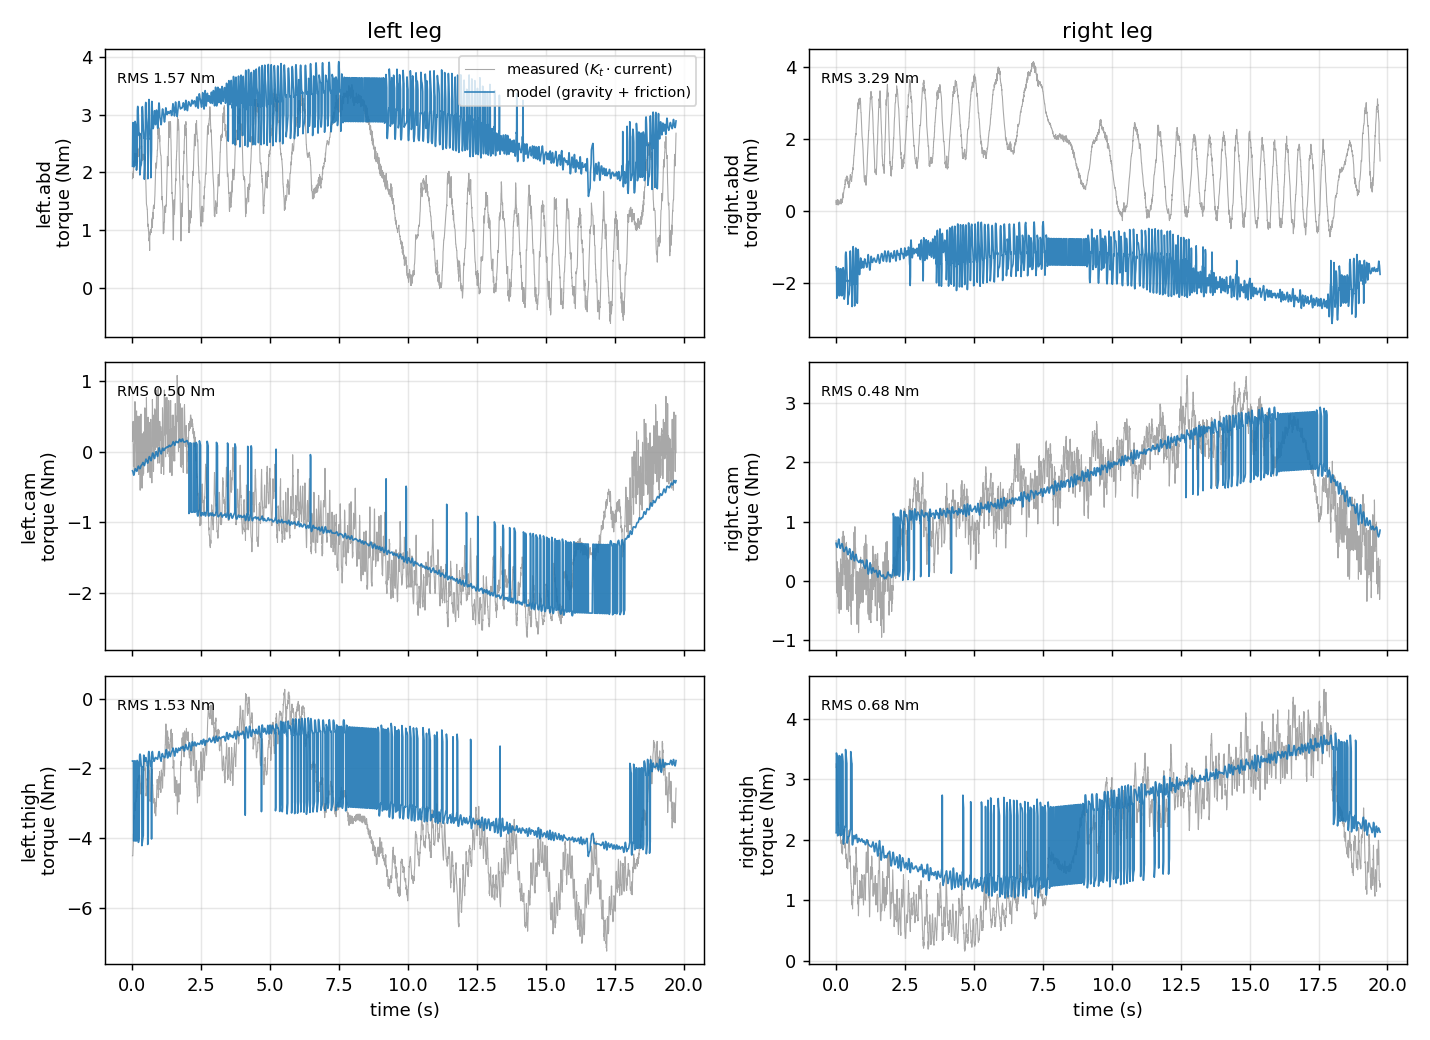
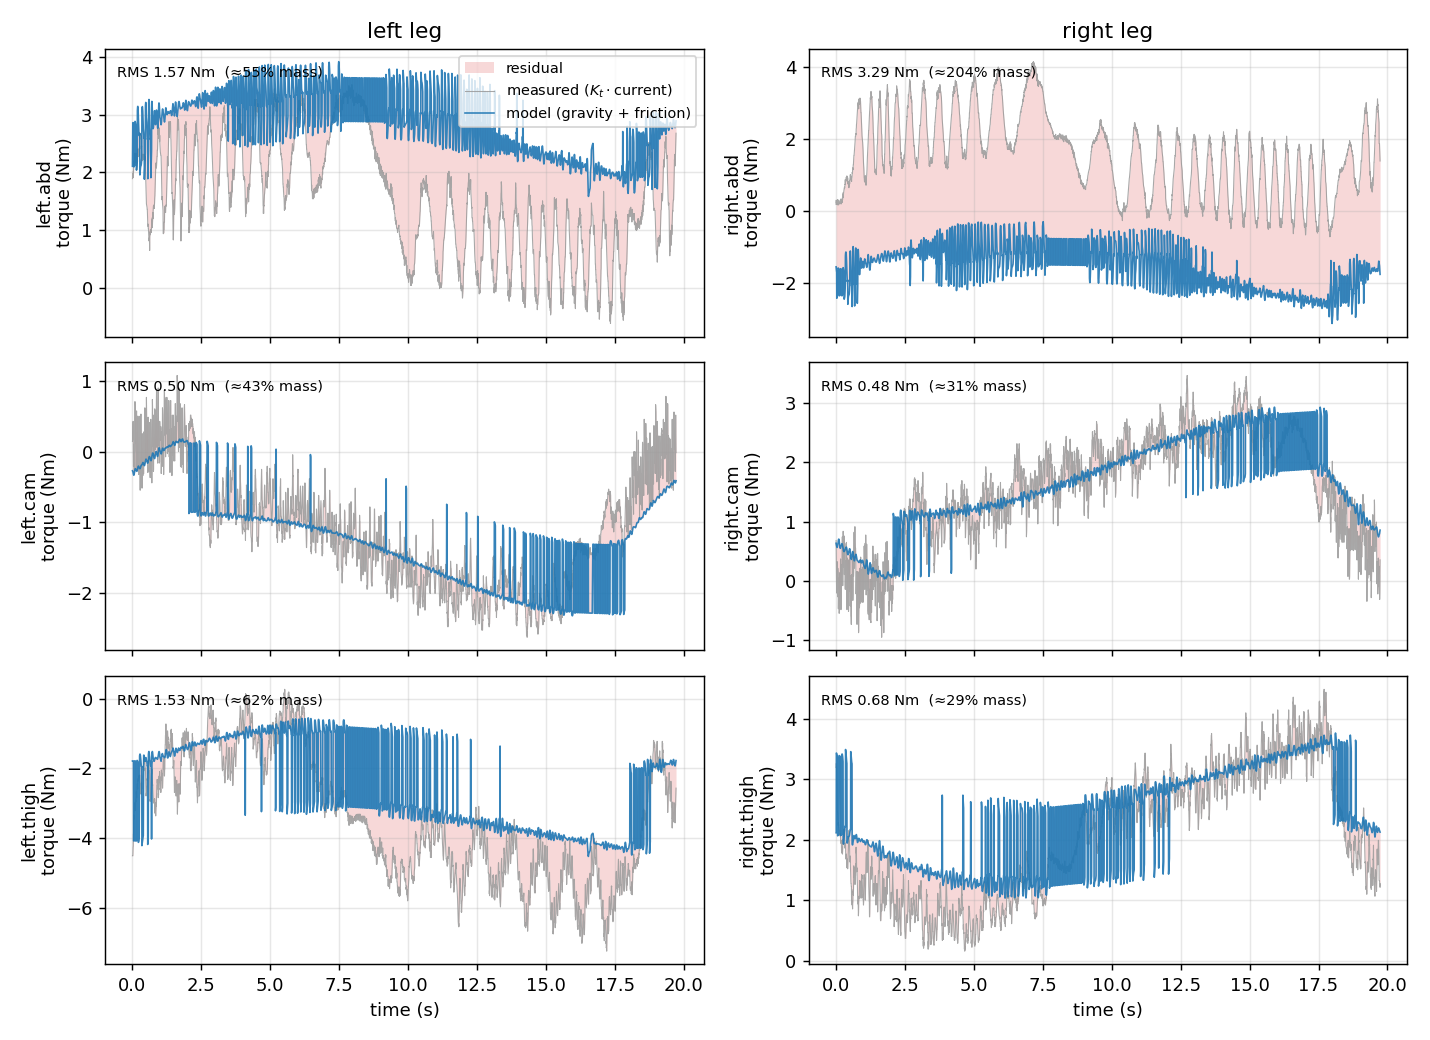
Replace servo-only drive bandwidth figure with a servo/MIT Bode comparison
Fill the MIT-mode bandwidth placeholder by replacing fig_drive.pdf with
actuator_bode.pdf, a combined Bode plot: servo mode's SET_POS position loop
(-3 dB at 1.95 Hz, loaded leg) against MIT mode's velocity loop (-3 dB at
9-15 Hz depending on k_d, free rotor). Update the inertia-matrix section's
excitation caveat to cite the new number instead of the old single-pole
estimate, and close it with the MIT-mode bandwidth headroom as the fix.

Also convert the gravity-validation residual into a mass-equivalent error
per joint (RMS residual / RMS gravity torque, since gravity torque is
linear in mass) so the reader can judge fit quality without eyeballing a
noisy torque time series: 29-62% for the sagittal joints, 43-204% for
abduction. Revise the surrounding prose, which had called the fit "good"
before this number showed it isn't.

diff --git a/Chapters/ch3.tex b/Chapters/ch3.tex
@@ -287,33 +287,45 @@ least-squares fit on the pooled data recovers $K_t$, the effective inertia and t
 together. The fit uses the model's gravity torque, computed through the closed 4-bar loop
 (\cref{sec:twin}).
 
-\Cref{fig:inertia-validation} shows the slow sweep only: predicted torque (gravity plus friction)
-against measured torque ($K_t$ times current), for all six joints. The sagittal pair tracks well,
-with an RMS residual of 0.48\,Nm to 1.53\,Nm. Abduction tracks worse, 1.57\,Nm on the left leg and
-3.29\,Nm on the right. In my view the gap comes from an unverified assumption. The cam and thigh
-angles use a fitted zero from the closed-loop kinematics. Abduction instead assumes its calibrated
-zero equals the model's zero pose, and that equality is never checked against data.
+A raw torque residual is hard to judge on its own, so I convert it into a mass error. Gravity torque
+is linear in the body masses: $\tau = -\sum_b m_b (J_b^\top g)$, where $m_b$ is each body's mass and
+$J_b$ its centre-of-mass Jacobian. A uniform fractional error $\varepsilon$ in every mass therefore
+scales every joint's gravity torque by exactly $\varepsilon$. I divide the RMS residual by the RMS
+gravity torque to get the uniform mass error that would produce a torque error of the same size. It
+is an upper bound, since part of the residual is the stick-slip ripple, not a mass error.
+
+\Cref{fig:inertia-validation} shows the slow sweep: predicted torque against measured torque, with
+the residual shaded and the mass-equivalent error labelled per joint. The sagittal joints correspond
+to a 29\,\% to 62\,\% mass error, and abduction to 43\,\% and 204\,\%. In my view none of these
+validate the mass model to a useful tolerance. Even the best joint, right thigh at 29\,\%, is an
+order of magnitude looser than the few-percent accuracy a mass-matrix validation would want. The
+model tracks the gravity trend's shape and sign, not its magnitude. The worst case, right abduction
+at 204\,\%, is consistent with an unverified assumption: the cam and thigh angles use a fitted zero
+from the closed-loop kinematics, while abduction assumes its calibrated zero equals the model's zero
+pose, an equality that is never checked against data.
 
 \begin{figure}[H]
 \centering
 \includegraphics[width=0.9\linewidth]{Figures/inertiaValidationGravity.png}
 \caption{Gravity-model validation on the slow (0.03\,Hz) quasi-static sweep: measured torque
-($K_t$ times current) against the model's predicted torque (gravity plus friction), per joint. The
-fast ripple is the P-only position loop's stick-slip response under Coulomb friction, not sensor
-noise.}
+($K_t$ times current) against the model's predicted torque (gravity plus friction), residual shaded,
+per joint. The mass-equivalent error is the RMS residual divided by the RMS gravity torque. The fast
+ripple is the P-only position loop's stick-slip response under Coulomb friction, not sensor noise.}
 \label{fig:inertia-validation}
 \end{figure}
 
-The chirp excitation does not validate the inertia term. The drive's servo-mode position loop rolls
-off at 0.8\,Hz (\cref{sec:plant-id-drive}), so a chirp commanded above roughly 1\,Hz is mostly not
-executed. The joint never reaches the commanded acceleration, and the shortfall shows up as
-tracking error rather than inertial torque. The regression reflects the missing signal: the fitted
-armature converges to exactly zero for three of the six joints, left abduction, left thigh, right
-thigh. I also score the fit by predicting torque on data withheld from the regression, normalized
-by the measured torque's own RMS. That held-out normalized RMS is 63\,\% pooled across all six
-joints, against the 20\,\% target I use to accept a fit. I therefore treat only the gravity and
-friction terms as validated. A full inertia-matrix identification needs direct torque control (MIT
-mode) rather than the servo-mode position loop used here.
+The chirp excitation does not fully validate the inertia term. The drive's servo-mode position loop
+has a measured closed-loop bandwidth of 1.95\,Hz ($-3$\,dB, \cref{sec:plant-id-drive}), and the
+dynamic run's chirp reached 2\,Hz, right at that ceiling. The top of the sweep is attenuated by
+roughly half, so the joint falls short of the commanded acceleration there. The regression reflects
+the shortfall: the fitted armature converges to exactly zero for three of the six joints, left
+abduction, left thigh, right thigh. I also score the fit by predicting torque on data withheld from
+the regression, normalized by the measured torque's own RMS. That held-out normalized RMS is
+63\,\% pooled across all six joints, against the 20\,\% target I use to accept a fit. Neither the
+gravity model nor the inertia term clears that bar. I therefore treat the identified parameters as
+a rough, order-of-magnitude plant estimate rather than a validated one. MIT mode's velocity loop
+reaches five to eight times the bandwidth of servo mode (\cref{sec:plant-id-drive}); a full
+inertia-matrix identification should excite through it instead.
 
 \subsubsection{IMU caracterisation}
 at $\pm4$\,g and $\pm1000$\,dps, with a 50\,Hz internal low-pass and 200\,Hz sampling.
@@ -357,20 +369,36 @@ Not done due to lack of time, estimated from the stated internal resistance of t
 This is further complicated by the lack of voltage feedback on the motor drivers, which prevents measuring the voltage drop under load.
 In practice, this is not expected to be a problem because the driver are not used in torque control and thus we can except the driver to be able to regulate it without taking the RL policy out of it's distribution.
 
-\subsubsection{Actuator bandwith caracterisation}
+\subsubsection{Actuator bandwidth characterisation}
 \label{sec:plant-id-drive}
+
+I measure the AKE90-8's closed-loop bandwidth in both control interfaces the drive exposes: servo
+mode's position command, and MIT mode's velocity command \cite{morand2026runningrobot}. The two
+loops are not interchangeable, so I measure each through the interface it is actually used with.
+
+For servo mode I command a position chirp to the loaded left thigh through \texttt{SET\_POS}:
+0.05\,Hz to 11.5\,Hz, at 13.9\,deg amplitude. I estimate the transfer function $H(f) =
+P_{xy}/P_{xx}$ by Welch's method. I keep only frequencies where the coherence exceeds 0.7. For MIT
+mode I command a velocity sine at ten frequencies up to 30\,Hz, with the position loop off ($k_p =
+0$) and no leg attached. I sweep three derivative gains, $k_d \in \{0.4, 1.0, 2.5\}$, and read gain
+and phase from the recorded response.
+
+\Cref{fig:actuator-bode} shows both. Servo mode reaches $-3$\,dB at 1.95\,Hz, with an 18\,ms delay
+fitted from the phase slope above 4\,Hz. MIT mode reaches $-3$\,dB between 9.0\,Hz and 15.1\,Hz
+depending on $k_d$, five to eight times higher. The comparison is not perfectly matched. Servo mode
+is measured on the loaded leg tracking position; MIT mode, on a free rotor tracking velocity. Each
+is measured through the interface it is actually commanded with on the robot. MIT phase is
+referenced to its 1\,Hz point, which shifts every reported phase by under 9\,deg. I report that as
+a limitation of the reference, rather than correcting for it. Cam and thigh (nodes 105 and 106)
+agree within 1.3\,dB and 3\,deg everywhere I checked both, so one drive stands for the pair.
 
 \begin{figure}[H]
 \centering
-\begin{minipage}[c]{0.90\textwidth}
-\centering
-\includegraphics[width=\linewidth]{Figures/fig_drive.pdf}
-\captionof{figure}{Actuator bandwidth measurement in Servo Mode. The drive's internal position loop is characterised by applying a chirp to the commanded position and measuring the actual position.}
-\label{fig:drive-bandwidth-servo}
-\end{minipage}
+\includegraphics[width=0.75\linewidth]{Figures/actuatorBandwidthBode.pdf}
+\caption{Measured closed-loop frequency response of the AKE90-8 drive: servo mode's position loop
+(loaded leg) against MIT mode's velocity loop (free rotor), for three derivative gains $k_d$.}
+\label{fig:actuator-bode}
 \end{figure}
-
-ADD HERE FIGURE OF THE DRIVE BANDWIDTH MEASUREMENT in MIT MODE
 
 \subsection{Deployment stack}
 \label{sec:deploy}
